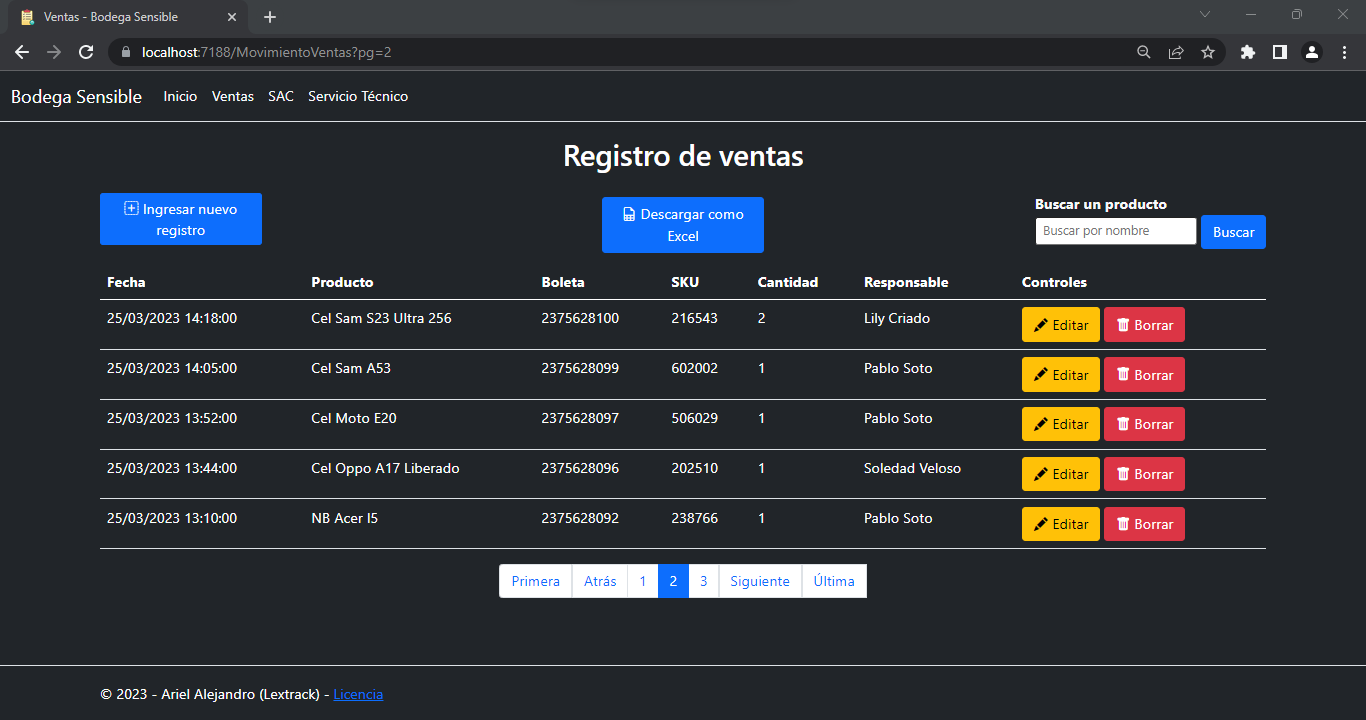
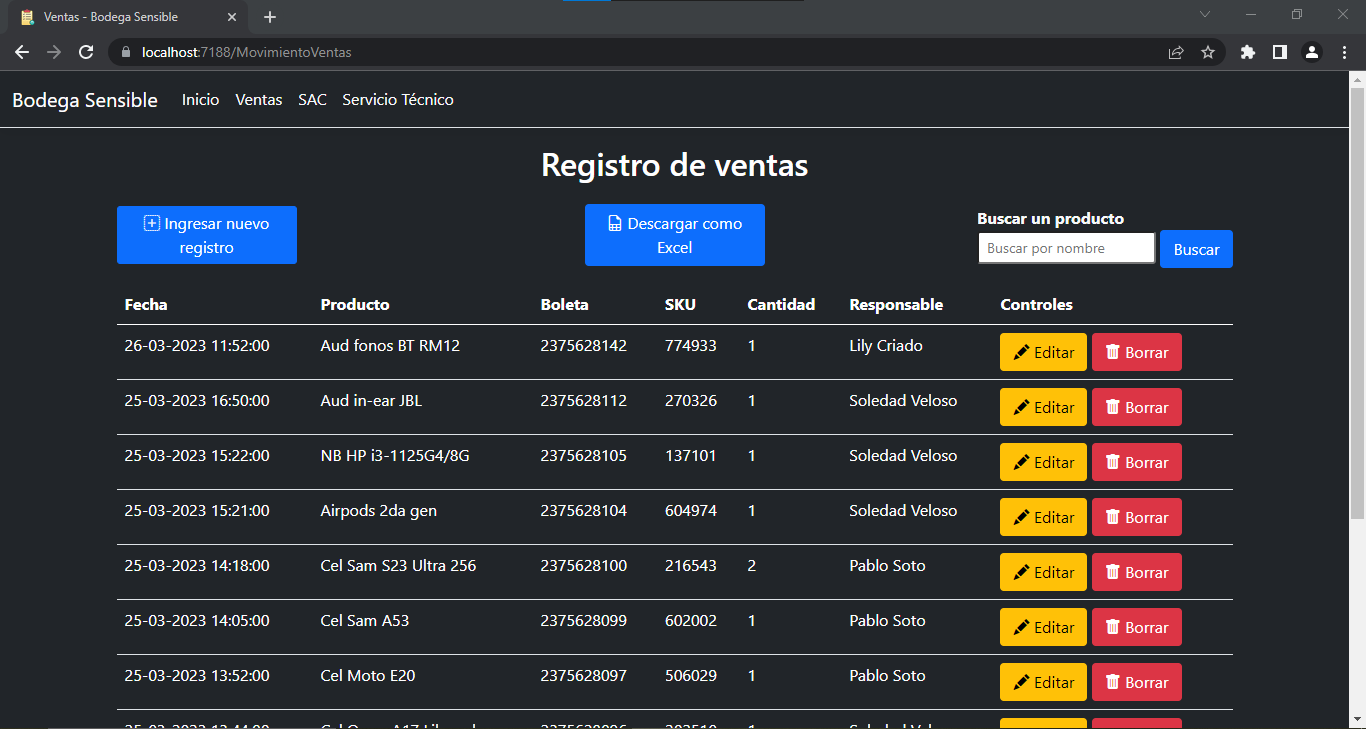
More terms to search in Ventas

diff --git a/MovimientosBodegaSensible/Controllers/ExportServicioTecnicoController.cs b/MovimientosBodegaSensible/Controllers/ExportServicioTecnicoController.cs
@@ -17,21 +17,16 @@ namespace MovimientosBodegaSensible.Controllers
         {
             ExcelPackage.LicenseContext = LicenseContext.NonCommercial;
 
-            // Obtener los datos desde la base de datos
             var data = _dbContext.ServicioTecnicoes.ToList();
 
-            // Crear archivo Excel
             var excelPackage = new ExcelPackage();
             var worksheet = excelPackage.Workbook.Worksheets.Add("Datos de servicio técnico");
 
-            // Agregar los datos
             worksheet.Cells.LoadFromCollection(data, true);
 
-            // Guardar el archivo Excel
             var stream = new MemoryStream();
             excelPackage.SaveAs(stream);
 
-            // Devolver el archivo Excel como una respuesta HTTP
             var fileName = "Datos de servicio técnico.xlsx";
             var contentType = "application/vnd.openxmlformats-officedocument.spreadsheetml.sheet";
             return File(stream.ToArray(), contentType, fileName);

diff --git a/MovimientosBodegaSensible/Controllers/ExportSacController.cs b/MovimientosBodegaSensible/Controllers/ExportSacController.cs
@@ -17,21 +17,16 @@ namespace MovimientosBodegaSensible.Controllers
         {
             ExcelPackage.LicenseContext = LicenseContext.NonCommercial;
 
-            // Obtener los datos desde la base de datos
             var data = _dbContext.Sacs.ToList();
 
-            // Crear archivo Excel
             var excelPackage = new ExcelPackage();
             var worksheet = excelPackage.Workbook.Worksheets.Add("Datos transacciones SAC");
 
-            // Agregar los datos
             worksheet.Cells.LoadFromCollection(data, true);
 
-            // Guardar el archivo Excel
             var stream = new MemoryStream();
             excelPackage.SaveAs(stream);
 
-            // Devolver el archivo Excel como una respuesta HTTP
             var fileName = "Datos transacciones SAC.xlsx";
             var contentType = "application/vnd.openxmlformats-officedocument.spreadsheetml.sheet";
             return File(stream.ToArray(), contentType, fileName);

diff --git a/MovimientosBodegaSensible/Controllers/ExportVentasController.cs b/MovimientosBodegaSensible/Controllers/ExportVentasController.cs
@@ -17,21 +17,16 @@ namespace MovimientosBodegaSensible.Controllers
         {
             ExcelPackage.LicenseContext = LicenseContext.NonCommercial;
 
-            // Obtener los datos desde la base de datos
             var data = _dbContext.MovimientoVentas.ToList();
 
-            // Crear archivo Excel
             var excelPackage = new ExcelPackage();
             var worksheet = excelPackage.Workbook.Worksheets.Add("Datos de ventas");
 
-            // Agregar los datos
             worksheet.Cells.LoadFromCollection(data, true);
 
-            // Guardar el archivo Excel
             var stream = new MemoryStream();
             excelPackage.SaveAs(stream);
 
-            // Devolver el archivo Excel como una respuesta HTTP
             var fileName = "Datos de ventas.xlsx";
             var contentType = "application/vnd.openxmlformats-officedocument.spreadsheetml.sheet";
             return File(stream.ToArray(), contentType, fileName);

diff --git a/MovimientosBodegaSensible/Controllers/MovimientoVentasController.cs b/MovimientosBodegaSensible/Controllers/MovimientoVentasController.cs
@@ -20,10 +20,10 @@ namespace MovimientosBodegaSensible.Controllers
 
             if (!String.IsNullOrEmpty(buscarVenta))
             {
-                venta = venta.Where(s => s.Producto!.Contains(buscarVenta));
+                venta = venta.Where(s => s.Producto!.Contains(buscarVenta) || s.Boleta.ToString().Contains(buscarVenta) || s.Sku.ToString().Contains(buscarVenta));
             }
 
-            const int pageSize = 10;
+            const int pageSize = 15;
             if (pg < 1)
                 pg = 1;
 
@@ -42,6 +42,7 @@ namespace MovimientosBodegaSensible.Controllers
 
             return View(data);
         }
+
 
         // GET: MovimientoVentas/Details/5
         public async Task<IActionResult> Details(long? id)
